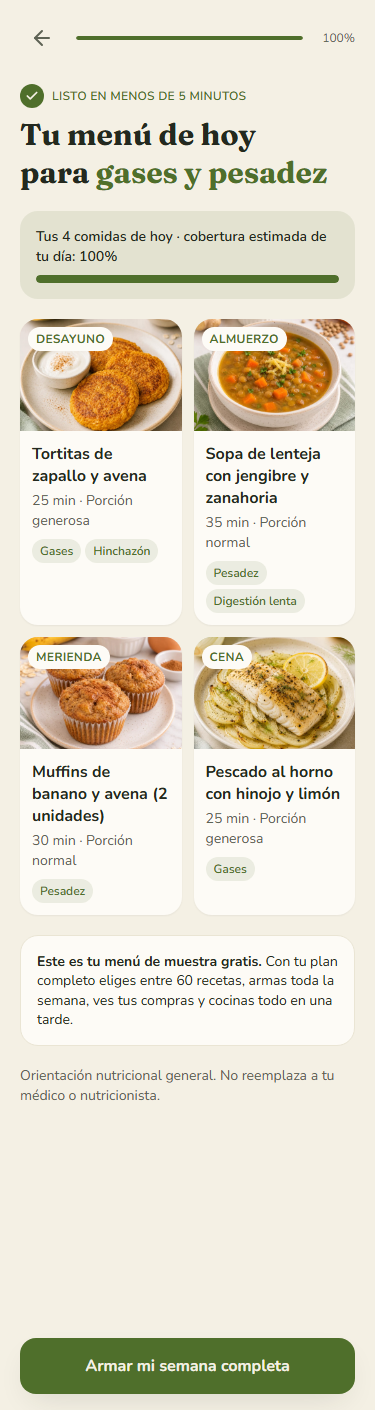
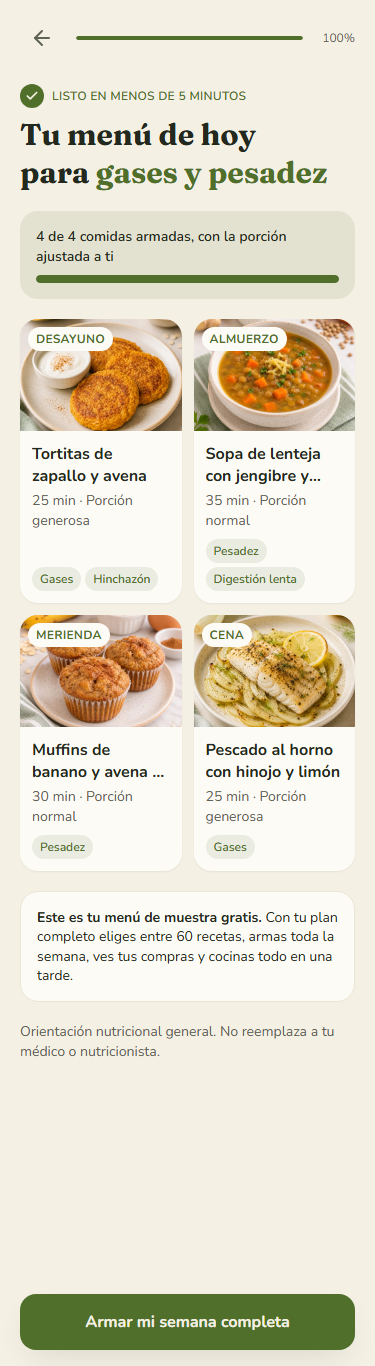
fix: onboarding sin porcentaje tautológico y tarjetas del menú alineadas

diff --git a/components/onboarding/Flow.tsx b/components/onboarding/Flow.tsx
@@ -646,14 +646,13 @@ export function Flow({ fotos = [] }: { fotos?: string[] }) {
                 </div>
                 <div className="rounded-[var(--radius-card)] bg-[var(--chip-bg)] p-4">
                   <p className="text-sm font-semibold">
-                    Tus 4 comidas de hoy · cobertura estimada de tu día:{' '}
-                    <Conteo hasta={Math.min(100, Math.round(menu.cobertura * 100))} sufijo="%" />
+                    <Conteo hasta={menu.items.length} /> de 4 comidas armadas, con la porción ajustada a ti
                   </p>
                   <div className="mt-2 h-2 overflow-hidden rounded-full bg-[var(--surface-2)]">
                     <motion.div
                       className="h-full rounded-full bg-[var(--accent)]"
                       initial={{ width: 0 }}
-                      animate={{ width: `${Math.min(100, Math.round(menu.cobertura * 100))}%` }}
+                      animate={{ width: '100%' }}
                       transition={{ duration: reducir ? 0 : 0.9, ease: EASE }}
                     />
                   </div>
@@ -665,15 +664,15 @@ export function Flow({ fotos = [] }: { fotos?: string[] }) {
                       initial={{ opacity: 0, y: reducir ? 0 : 12 }}
                       animate={{ opacity: 1, y: 0 }}
                       transition={{ delay: reducir ? 0 : 0.06 * n, duration: 0.3, ease: EASE }}
-                      className="overflow-hidden rounded-[var(--radius-card)] bg-[var(--surface)] shadow-[var(--shadow-1)]"
+                      className="flex flex-col overflow-hidden rounded-[var(--radius-card)] bg-[var(--surface)] shadow-[var(--shadow-1)]"
                     >
                       <FotoReceta receta={it.receta} className="h-28" conFoto={fotos.includes(it.receta.id)} />
-                      <div className="p-3">
-                        <h2 className="text-base font-bold leading-snug">{it.receta.nombre}</h2>
+                      <div className="flex flex-1 flex-col p-3">
+                        <h2 className="line-clamp-2 min-h-11 text-base font-bold leading-snug">{it.receta.nombre}</h2>
                         <p className="mt-1 text-sm text-[var(--text-secondary)]">
                           {it.receta.min} min · {porcionTexto(it.porcion)}
                         </p>
-                        <p className="mt-2 flex flex-wrap gap-1">
+                        <p className="mt-auto flex flex-wrap gap-1 pt-2">
                           {it.receta.sintomas.slice(0, 2).map((s) => (
                             <span
                               key={s}
